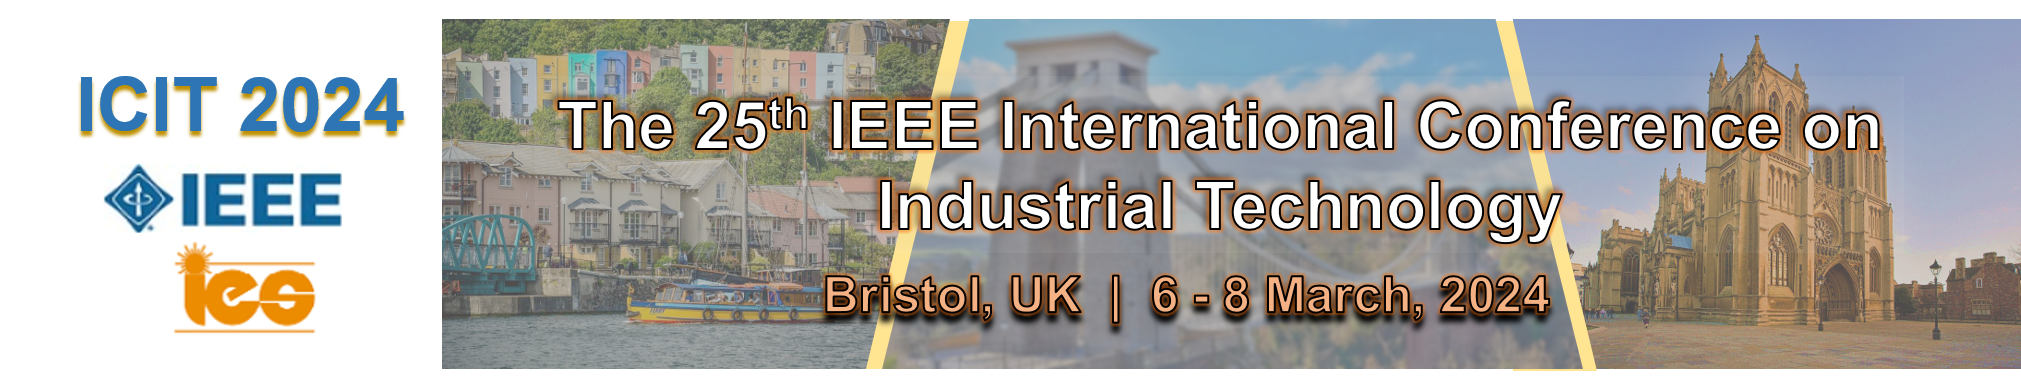
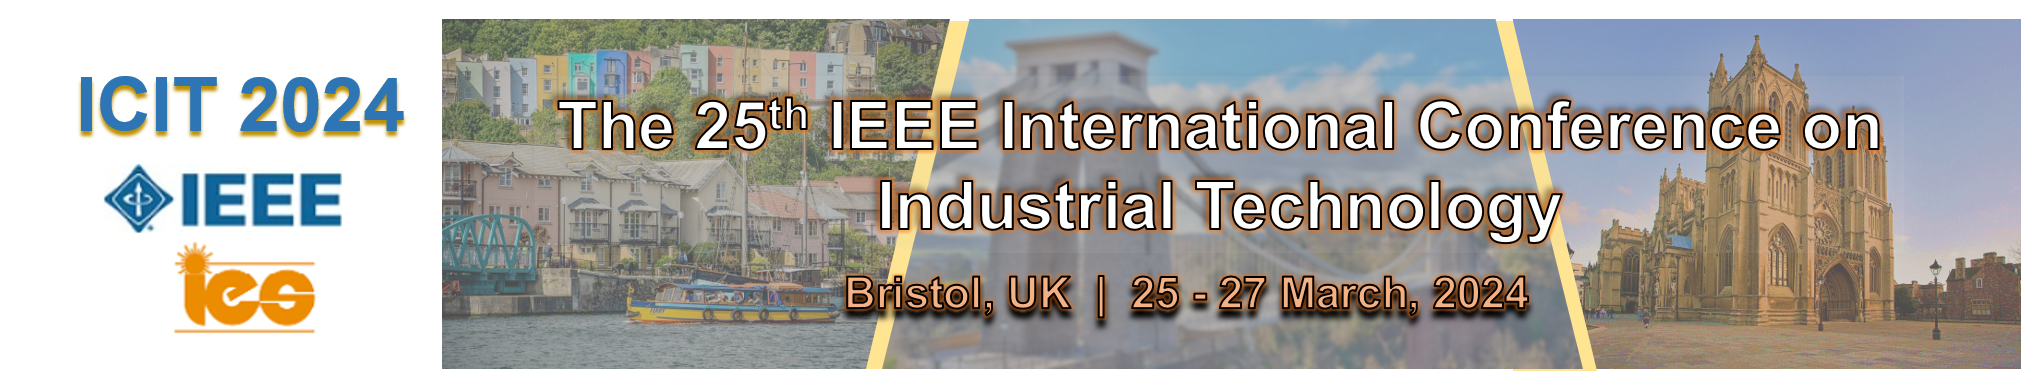
d

Changed region(s): [[0.4052, 0.6966, 0.7793, 0.8707]]

diff --git a/importantDates.html b/importantDates.html
@@ -19,6 +19,16 @@
 
 <link href="skins/default.css" rel="stylesheet" />
 <script src="vendor/jquery/jquery.min.js"></script>
+
+
+<style>
+  /* 为文本添加红色删除线 */
+  .red-strike {
+      text-decoration: line-through; /* 设置文本为删除线样式 */
+      color: red; /* 设置文本颜色为红色 */
+  }
+</style>
+
 </head>
 
 <body style="">
@@ -94,14 +104,16 @@
               <div class="box">
                 <div class="box-gray aligncenter box-white">
                   <h4>Important Dates</h4>
-                 
-                  Special Session Proposal Deadline 10 Oct 2023
+                  <p>Special Session Proposal Deadline: <span class="red-strike">10 Oct 2023</span>30 Oct 2023</p>
+                   
                   </br>
-                  Paper submission Deadline 30 Oct 2023
+                  <p>Paper submission Deadline: <span class="red-strike">30 Oct 2023</span>30 Nov 2023</p>
+
                   </br>
-                  Notification of Acceptance Date: 30 Dec 2023
+                  <p>Notification of Acceptance Date: <span class="red-strike">30 Dec 2023</span>30 Jan 2024</p>
+                   
                   </br>
-                  Final Paper Submission Date: 10 Jan 2024 
+                  <p>Final Paper Submission Date: <span class="red-strike">10 Jan 2024 </span>15 Feb 2024</p>
 
 <!-- 
                   <ul class="content" style="text-align: left;">

diff --git a/Approved Special Sessions.html b/Approved Special Sessions.html
@@ -215,6 +215,24 @@
                     <p style="color: #000000"></p>Co-chair: Mohamed I. Mosaad </p>
                     <br />
 		    </li>
+
+        <li>
+          <p style="color: #e92f2f">SS18: Scene Understanding in Industrial processes</p>
+          <p style="color: #000000"></p>Session Chair: Yefeng Liu  </p>
+          <p style="color: #000000"></p>Co-chair: Qichun Zhang, Xinfu Pang </p>
+          <br />
+        </li>
+
+        <li>
+          <p style="color: #e92f2f">SS19: Emerging Technologies in Wireless Power Transfer</p>
+          <p style="color: #000000"></p>Session Chair: Jiayu Zhou  </p>
+          <p style="color: #000000"></p>Co-chair: Jon Are Suul, Yuanshuang Fan, Chaoqiang Jiang </p>
+          <br />
+        </li>
+
+
+
+
                   </ul> 
 
                   </style> 

diff --git a/latestpost.html b/latestpost.html
@@ -13,6 +13,8 @@
 <aside class="right-sidebar">
 <div class="widget">
     <h4 class="widgetheading">Announcements</h4>
+
+    We are pleased to announce that the conference dates are extended to March 25th - 27th. We also extend the deadlines for session proposals and paper submissions for more weeks to prepare.
   </div>
 
 </aside>
